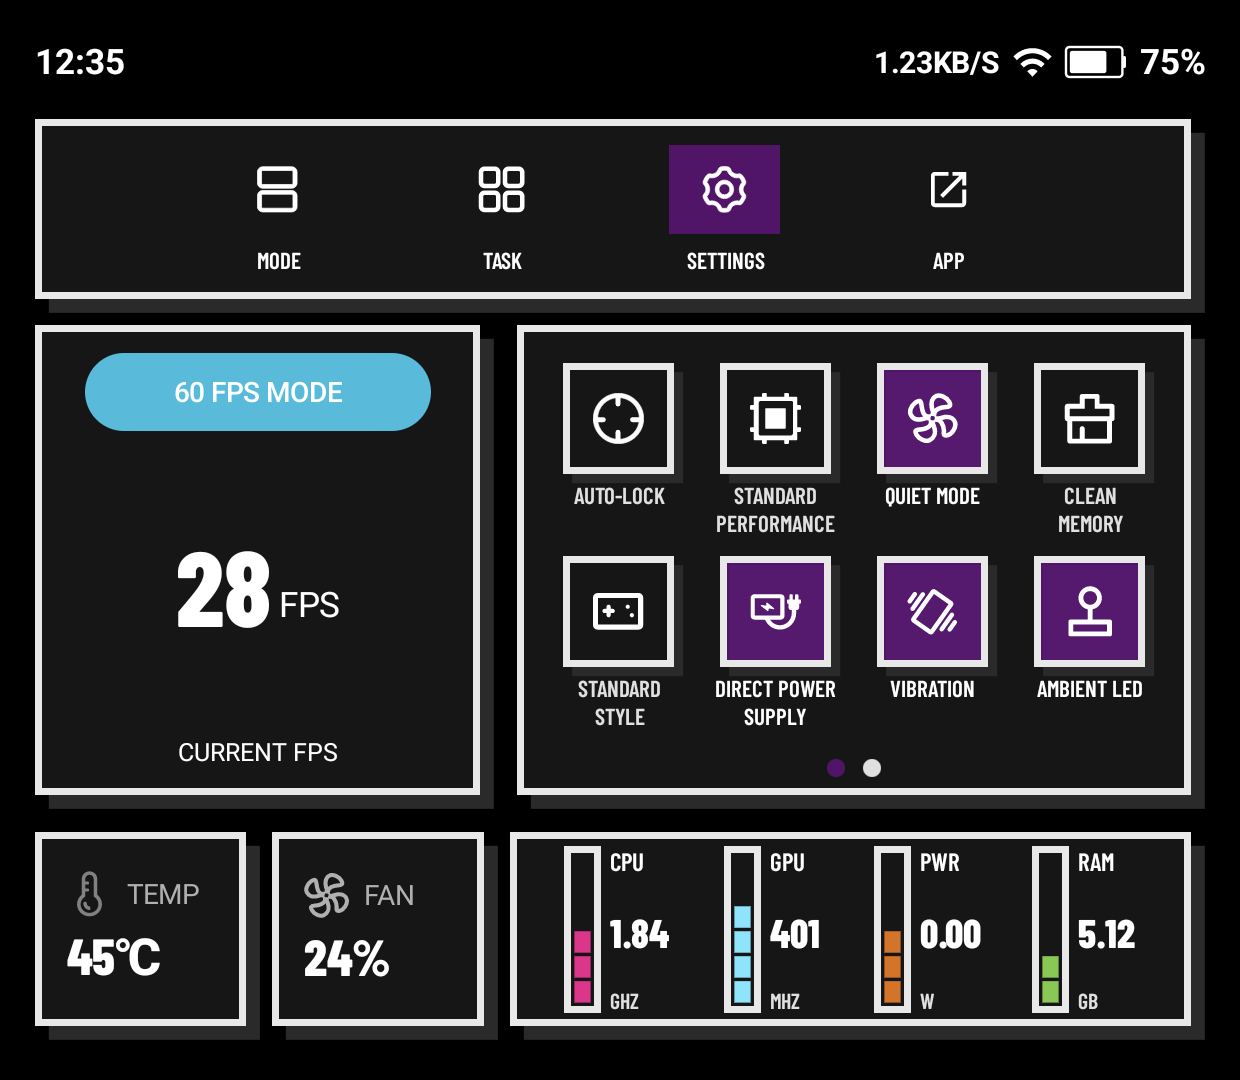
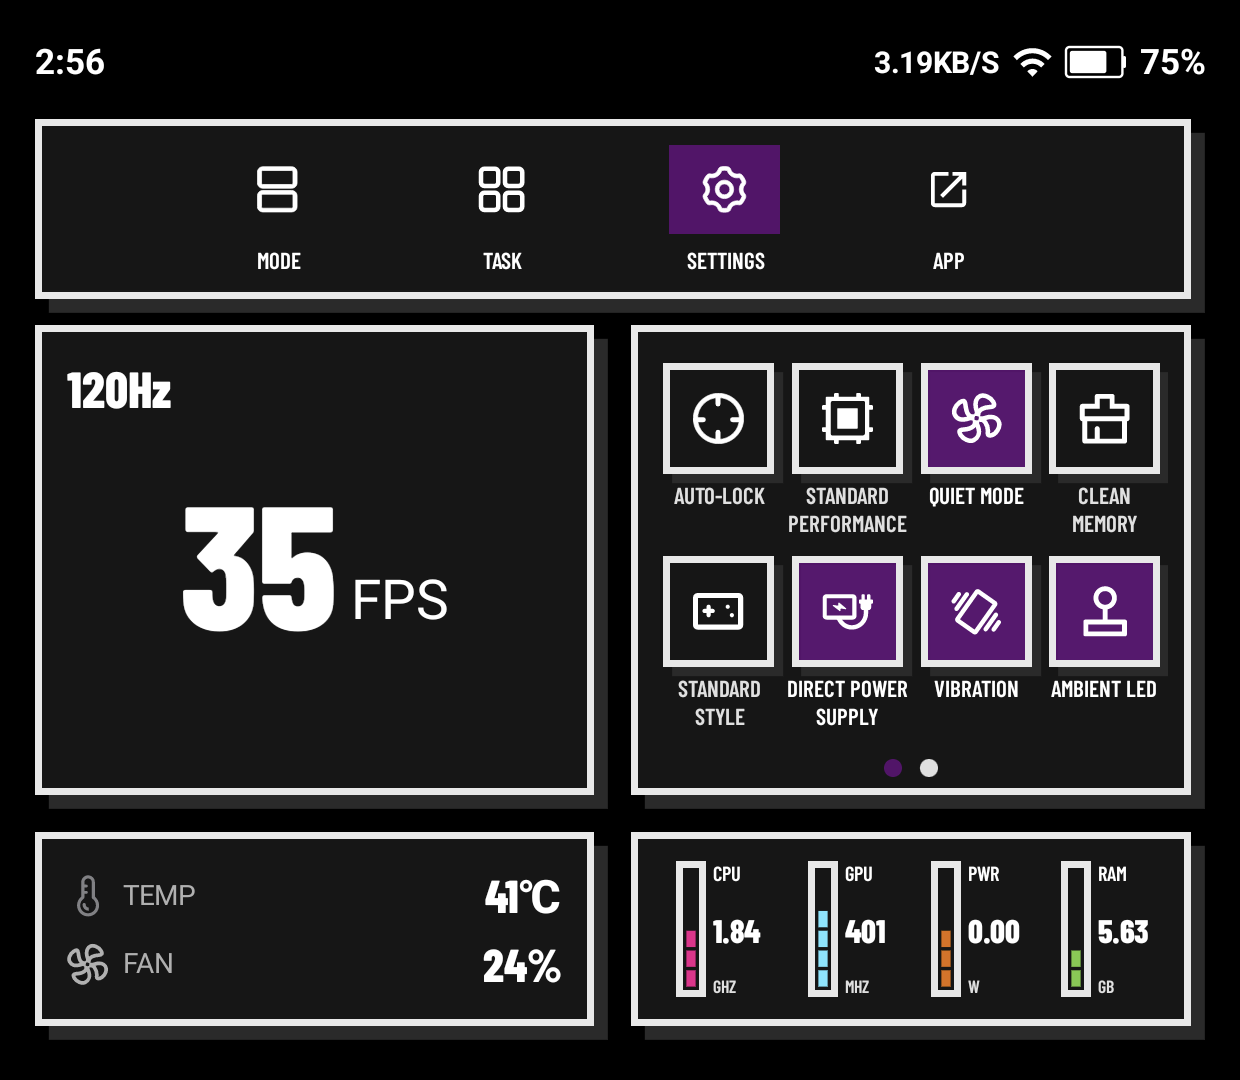
feat(overlay): compact hardware cards that adapt to their grid slot
Reworks the Settings telemetry/FPS cards so a free arrangement stays readable:

- Merge TEMP + FAN into one card (FAN removed as a separate grid card; RINGS is now HALF), so the hardware strip is
  one row again and the quick toggles get their height back. Default settings grid is now
  [FPS | quick tiles] / [temp+fan | rings].
- Right-size the FPS panel weight (0.70 -> 0.38) so it never forces a tall row that squeezes the toggles.
- Adaptive content by slot size (BoxWithConstraints): RINGS renders 2x2 (bigger) in a tall card, 1x4 in a strip;
  TEMP/FAN shows two stat columns (icon+label on top, value below) in a tall card, stacked rows in a strip; the FPS
  counter + FPS label grow in a big card.
- FPS card: replace the '60/120 FPS MODE' pill with a small Hz label in the top-left corner (same display font as the
  counter; whole card toggles), and drop the clipped 'CURRENT FPS' label. Fixes the FPS cutoff in tall-font looks
  (e-ink, y2k, segment lcd, cartridge).
- Rewrite OverlayLayoutTest (13) for the merged model; refresh the 17 look screenshots + gallery.

diff --git a/app/src/main/java/jr/brian/commandpannel/ui/overlay/SettingsTab.kt b/app/src/main/java/jr/brian/commandpannel/ui/overlay/SettingsTab.kt
@@ -4,6 +4,7 @@ import androidx.compose.foundation.background
 import jr.brian.commandpannel.ui.components.noRippleClickable
 import androidx.compose.foundation.layout.Arrangement
 import androidx.compose.foundation.layout.Box
+import androidx.compose.foundation.layout.BoxWithConstraints
 import androidx.compose.foundation.layout.Column
 import androidx.compose.foundation.layout.Row
 import androidx.compose.foundation.layout.RowScope
@@ -56,8 +57,7 @@ fun SettingsTab(
             OverlayCardId.FRAME_RATE -> FrameRatePanel(state, actions, m)
             OverlayCardId.QUICK_TILES -> QuickTilesPanel(state, onTile, m)
             OverlayCardId.RINGS -> RingsCard(state, m)
-            OverlayCardId.TEMP -> InfoCard(m, icon = "ic_temp", iconTint = TempColors.forCelsius(state.tempC), title = "TEMP", value = "${state.tempC}℃")
-            OverlayCardId.FAN -> InfoCard(m, icon = "ic_fan_normal", iconTint = null, title = "FAN", value = "${state.fanPercent}%")
+            OverlayCardId.TEMP -> TempFanCard(state, m)
             else -> Unit
         }
     }
@@ -66,42 +66,28 @@ fun SettingsTab(
 @Composable
 private fun FrameRatePanel(state: OverlayUiState, actions: OverlayActions, modifier: Modifier) {
     val colors = LocalTccColors.current
+    val displayStyle = jr.brian.commandpannel.ui.theme.tccDisplayTextStyle()
     TccCard(modifier) {
-        Column(
-            Modifier.fillMaxSize().padding(12.dp),
-            horizontalAlignment = Alignment.CenterHorizontally,
-            verticalArrangement = Arrangement.SpaceBetween,
-        ) {
-            androidx.compose.foundation.layout.Box(
-                Modifier.noRippleClickable { actions.toggleRefreshRate() },
-            ) { FrameRatePill(state.is120Hz) }
-            Row(verticalAlignment = Alignment.Bottom) {
-                Text("${state.fps}", color = colors.primary, fontSize = 46.sp, fontWeight = FontWeight.Bold, style = jr.brian.commandpannel.ui.theme.tccDisplayTextStyle())
-                Text(" FPS", color = colors.primary, fontSize = 15.sp, modifier = Modifier.padding(bottom = 10.dp))
+        // Tapping the whole card toggles the refresh rate; the rate shows as a small Hz label in the top-left corner
+        // (same text style as the FPS counter) to save space. In a big/tall card the counter grows to fill it.
+        BoxWithConstraints(Modifier.fillMaxSize().noRippleClickable { actions.toggleRefreshRate() }.padding(14.dp)) {
+            val big = maxHeight > maxWidth * 0.52f
+            val numberSp = if (big) 76.sp else 46.sp
+            val fpsSp = if (big) 24.sp else 15.sp
+            val hzSp = if (big) 22.sp else 16.sp
+            Text(
+                if (state.is120Hz) "120Hz" else "60Hz",
+                color = colors.primary,
+                fontSize = hzSp,
+                fontWeight = FontWeight.Bold,
+                style = displayStyle,
+                modifier = Modifier.align(Alignment.TopStart),
+            )
+            Row(Modifier.align(Alignment.Center), verticalAlignment = Alignment.Bottom) {
+                Text("${state.fps}", color = colors.primary, fontSize = numberSp, fontWeight = FontWeight.Bold, maxLines = 1, style = displayStyle)
+                Text(" FPS", color = colors.primary, fontSize = fpsSp, modifier = Modifier.padding(bottom = if (big) 14.dp else 10.dp))
             }
-            Text("CURRENT FPS", color = colors.panelText, fontSize = 11.sp)
         }
-    }
-}
-
-/** The "60/120 FPS MODE" pill (stock `bg_60/bg_120_frame_rate_mode` gradients), rendered in Compose. */
-@Composable
-private fun FrameRatePill(is120: Boolean) {
-    // Single flat fill (no gradient, no fade) so the pill reads as a solid filled badge.
-    val fill = if (is120) Color(0xFFD11AFF) else Color(0xFF1BBDDE)
-    Box(
-        modifier = Modifier
-            .size(width = 150.dp, height = 34.dp)
-            .clip(RoundedCornerShape(17.dp))
-            .background(fill),
-        contentAlignment = Alignment.Center,
-    ) {
-        Text(
-            if (is120) "120 FPS MODE" else "60 FPS MODE",
-            color = Color.White,
-            fontSize = 12.sp,
-            fontWeight = FontWeight.Medium,
-        )
     }
 }
 
@@ -153,36 +139,101 @@ private fun QuickTilesPanel(state: OverlayUiState, onTile: (String) -> Unit, mod
 
 @Composable
 private fun RingsCard(state: OverlayUiState, modifier: Modifier) {
+    val cpu: @Composable (Modifier) -> Unit = { m -> RingGauge(state.cpuFraction, RingColors.Cpu, "CPU", "%.2f".format(state.cpuGhz), "GHz", m) }
+    val gpu: @Composable (Modifier) -> Unit = { m -> RingGauge(state.gpuFraction, RingColors.Gpu, "GPU", "${state.gpuMhz}", "MHz", m) }
+    val pwr: @Composable (Modifier) -> Unit = { m -> RingGauge(state.powerFraction, RingColors.Pwr, "PWR", "%.2f".format(state.powerW), "W", m) }
+    val ram: @Composable (Modifier) -> Unit = { m -> RingGauge(state.ramFraction, RingColors.Ram, "RAM", "%.2f".format(state.ramGb), "GB", m) }
     TccCard(modifier) {
-        Row(
-            Modifier.fillMaxSize().padding(horizontal = 15.dp),
-            horizontalArrangement = Arrangement.spacedBy(5.dp),
-            verticalAlignment = Alignment.CenterVertically,
-        ) {
-            RingGauge(state.cpuFraction, RingColors.Cpu, "CPU", "%.2f".format(state.cpuGhz), "GHz", Modifier.weight(1f).fillMaxHeight())
-            RingGauge(state.gpuFraction, RingColors.Gpu, "GPU", "${state.gpuMhz}", "MHz", Modifier.weight(1f).fillMaxHeight())
-            RingGauge(state.powerFraction, RingColors.Pwr, "PWR", "%.2f".format(state.powerW), "W", Modifier.weight(1f).fillMaxHeight())
-            RingGauge(state.ramFraction, RingColors.Ram, "RAM", "%.2f".format(state.ramGb), "GB", Modifier.weight(1f).fillMaxHeight())
+        BoxWithConstraints(Modifier.fillMaxSize().padding(horizontal = 12.dp, vertical = 8.dp)) {
+            // In a tall/square card (e.g. moved to its own big slot) fill the space with a 2x2 grid; a wide strip stays 1x4.
+            if (maxHeight > maxWidth * 0.52f) {
+                Column(Modifier.fillMaxSize(), verticalArrangement = Arrangement.spacedBy(4.dp)) {
+                    Row(Modifier.fillMaxWidth().weight(1f), horizontalArrangement = Arrangement.spacedBy(8.dp)) {
+                        cpu(Modifier.weight(1f).fillMaxHeight()); gpu(Modifier.weight(1f).fillMaxHeight())
+                    }
+                    Row(Modifier.fillMaxWidth().weight(1f), horizontalArrangement = Arrangement.spacedBy(8.dp)) {
+                        pwr(Modifier.weight(1f).fillMaxHeight()); ram(Modifier.weight(1f).fillMaxHeight())
+                    }
+                }
+            } else {
+                Row(Modifier.fillMaxSize(), horizontalArrangement = Arrangement.spacedBy(5.dp), verticalAlignment = Alignment.CenterVertically) {
+                    cpu(Modifier.weight(1f).fillMaxHeight()); gpu(Modifier.weight(1f).fillMaxHeight())
+                    pwr(Modifier.weight(1f).fillMaxHeight()); ram(Modifier.weight(1f).fillMaxHeight())
+                }
+            }
         }
     }
 }
 
+/** Combined TEMP + FAN readings in one card, so the hardware strip is a single row (frees height for quick tiles).
+ *  Adapts like the rings: stacked rows in a compact strip, two side-by-side stat columns in a tall/big card. */
 @Composable
-private fun InfoCard(modifier: Modifier, icon: String, iconTint: Color?, title: String, value: String) {
-    val colors = LocalTccColors.current
+private fun TempFanCard(state: OverlayUiState, modifier: Modifier) {
     TccCard(modifier) {
-        Column(Modifier.fillMaxSize().padding(14.dp), verticalArrangement = Arrangement.SpaceEvenly) {
-            Row(verticalAlignment = Alignment.CenterVertically) {
-                Image(
-                    painter = rememberStockPainter(icon),
-                    contentDescription = title,
-                    colorFilter = stockIconColorFilter(iconTint ?: colors.tertiary),
-                    modifier = Modifier.size(20.dp),
-                )
-                Spacer(Modifier.size(6.dp))
-                Text(title, color = colors.tertiary, fontSize = 12.sp)
+        BoxWithConstraints(Modifier.fillMaxSize().padding(horizontal = 14.dp, vertical = 10.dp)) {
+            if (maxHeight > maxWidth * 0.52f) {
+                Row(Modifier.fillMaxSize(), horizontalArrangement = Arrangement.spacedBy(8.dp)) {
+                    StatBlock(icon = "ic_temp", iconTint = TempColors.forCelsius(state.tempC), title = "TEMP", value = "${state.tempC}℃")
+                    StatBlock(icon = "ic_fan_normal", iconTint = null, title = "FAN", value = "${state.fanPercent}%")
+                }
+            } else {
+                Column(Modifier.fillMaxSize(), verticalArrangement = Arrangement.SpaceEvenly) {
+                    InfoRow(icon = "ic_temp", iconTint = TempColors.forCelsius(state.tempC), title = "TEMP", value = "${state.tempC}℃")
+                    InfoRow(icon = "ic_fan_normal", iconTint = null, title = "FAN", value = "${state.fanPercent}%")
+                }
             }
-            Text(value, color = colors.primary, fontSize = (22 * jr.brian.commandpannel.ui.theme.LocalTccLookSpec.current.settingsTab.infoValueScale).sp, fontWeight = FontWeight.Medium, style = jr.brian.commandpannel.ui.theme.tccDisplayTextStyle())
         }
+    }
+}
+
+/** One stat as a vertical block (icon + label on top, big value below) — the tall-card form of a temp/fan reading. */
+@Composable
+private fun RowScope.StatBlock(icon: String, iconTint: Color?, title: String, value: String) {
+    val colors = LocalTccColors.current
+    Column(
+        Modifier.weight(1f).fillMaxHeight(),
+        horizontalAlignment = Alignment.CenterHorizontally,
+        verticalArrangement = Arrangement.SpaceEvenly,
+    ) {
+        Row(verticalAlignment = Alignment.CenterVertically) {
+            Image(
+                painter = rememberStockPainter(icon),
+                contentDescription = title,
+                colorFilter = stockIconColorFilter(iconTint ?: colors.tertiary),
+                modifier = Modifier.size(20.dp),
+            )
+            Spacer(Modifier.size(6.dp))
+            Text(title, color = colors.tertiary, fontSize = 13.sp)
+        }
+        Text(
+            value,
+            color = colors.primary,
+            fontSize = (28 * jr.brian.commandpannel.ui.theme.LocalTccLookSpec.current.settingsTab.infoValueScale).sp,
+            fontWeight = FontWeight.Medium,
+            style = jr.brian.commandpannel.ui.theme.tccDisplayTextStyle(),
+        )
+    }
+}
+
+@Composable
+private fun InfoRow(icon: String, iconTint: Color?, title: String, value: String) {
+    val colors = LocalTccColors.current
+    Row(verticalAlignment = Alignment.CenterVertically) {
+        Image(
+            painter = rememberStockPainter(icon),
+            contentDescription = title,
+            colorFilter = stockIconColorFilter(iconTint ?: colors.tertiary),
+            modifier = Modifier.size(18.dp),
+        )
+        Spacer(Modifier.size(6.dp))
+        Text(title, color = colors.tertiary, fontSize = 12.sp)
+        Spacer(Modifier.weight(1f))
+        Text(
+            value,
+            color = colors.primary,
+            fontSize = (20 * jr.brian.commandpannel.ui.theme.LocalTccLookSpec.current.settingsTab.infoValueScale).sp,
+            fontWeight = FontWeight.Medium,
+            style = jr.brian.commandpannel.ui.theme.tccDisplayTextStyle(),
+        )
     }
 }

diff --git a/app/src/test/java/jr/brian/commandpannel/system/OverlayLayoutTest.kt b/app/src/test/java/jr/brian/commandpannel/system/OverlayLayoutTest.kt
@@ -23,22 +23,22 @@ class OverlayLayoutTest {
 
     @Test
     fun `swap same-span settings cards`() {
-        val tf = default.applyDrop(OverlayCardId.TEMP, card(OverlayCardId.FAN))
-        assertEquals(GridCell(2, 1), tf.settingsCells[OverlayCardId.TEMP])
-        assertEquals(GridCell(2, 0), tf.settingsCells[OverlayCardId.FAN])
-
         val fq = default.applyDrop(OverlayCardId.FRAME_RATE, card(OverlayCardId.QUICK_TILES))
         assertEquals(GridCell(0, 1), fq.settingsCells[OverlayCardId.FRAME_RATE])
         assertEquals(GridCell(0, 0), fq.settingsCells[OverlayCardId.QUICK_TILES])
-        assertEquals(default.settingsCells[OverlayCardId.RINGS], fq.settingsCells[OverlayCardId.RINGS]) // untouched
+
+        val tr = default.applyDrop(OverlayCardId.TEMP, card(OverlayCardId.RINGS))
+        assertEquals(GridCell(1, 1), tr.settingsCells[OverlayCardId.TEMP])
+        assertEquals(GridCell(1, 0), tr.settingsCells[OverlayCardId.RINGS])
+        assertEquals(GridCell(0, 0), tr.settingsCells[OverlayCardId.FRAME_RATE]) // untouched
     }
 
     @Test
     fun `move HALF to an empty cell leaves a gap`() {
         val r = default.applyDrop(OverlayCardId.TEMP, empty(OverlayCardGroup.SETTINGS_TAB, 3, 0))
         assertEquals(GridCell(3, 0), r.settingsCells[OverlayCardId.TEMP])
-        assertFalse(r.settingsCells.values.contains(GridCell(2, 0))) // old slot is now an empty gap
-        assertEquals(GridCell(2, 1), r.settingsCells[OverlayCardId.FAN]) // partner stays put
+        assertFalse(r.settingsCells.values.contains(GridCell(1, 0))) // old slot is now a gap
+        assertEquals(GridCell(1, 1), r.settingsCells[OverlayCardId.RINGS]) // partner stays put
         assertTrue(OverlayLayout.isValid(OverlayCardGroup.SETTINGS_TAB, r.settingsCells))
     }
 
@@ -48,20 +48,14 @@ class OverlayLayoutTest {
         assertEquals(GridCell(1, 0), r.modeCells[OverlayCardId.MODE_BUTTONS])
         assertEquals(GridCell(0, 0), r.modeCells[OverlayCardId.BRIGHTNESS])
         assertEquals(GridCell(0, 1), r.modeCells[OverlayCardId.VOLUME])
-
-        val s = default.applyDrop(OverlayCardId.RINGS, card(OverlayCardId.TEMP))
-        assertEquals(GridCell(2, 0), s.settingsCells[OverlayCardId.RINGS])
-        assertEquals(GridCell(1, 0), s.settingsCells[OverlayCardId.TEMP])
-        assertEquals(GridCell(1, 1), s.settingsCells[OverlayCardId.FAN])
-        assertEquals(GridCell(0, 0), s.settingsCells[OverlayCardId.FRAME_RATE]) // other row untouched
     }
 
     @Test
     fun `move FULL to a free row works, onto an occupied row is a no-op`() {
-        val moved = default.applyDrop(OverlayCardId.RINGS, empty(OverlayCardGroup.SETTINGS_TAB, 5, 0))
-        assertEquals(GridCell(5, 0), moved.settingsCells[OverlayCardId.RINGS])
+        val moved = default.applyDrop(OverlayCardId.MODE_BUTTONS, empty(OverlayCardGroup.MODE_TAB, 5, 0))
+        assertEquals(GridCell(5, 0), moved.modeCells[OverlayCardId.MODE_BUTTONS])
 
-        assertSame(default, default.applyDrop(OverlayCardId.RINGS, empty(OverlayCardGroup.SETTINGS_TAB, 0, 0)))
+        assertSame(default, default.applyDrop(OverlayCardId.MODE_BUTTONS, empty(OverlayCardGroup.MODE_TAB, 1, 0)))
     }
 
     @Test
@@ -75,9 +69,10 @@ class OverlayLayoutTest {
     @Test
     fun `layout stays valid after a sequence of drops`() {
         val r = default
-            .applyDrop(OverlayCardId.TEMP, card(OverlayCardId.FAN))
-            .applyDrop(OverlayCardId.RINGS, card(OverlayCardId.FRAME_RATE))
+            .applyDrop(OverlayCardId.TEMP, card(OverlayCardId.RINGS))
+            .applyDrop(OverlayCardId.FRAME_RATE, card(OverlayCardId.QUICK_TILES))
             .applyDrop(OverlayCardId.BRIGHTNESS, card(OverlayCardId.VOLUME))
+            .applyDrop(OverlayCardId.MODE_BUTTONS, card(OverlayCardId.BRIGHTNESS))
         assertTrue(OverlayLayout.isValid(OverlayCardGroup.MODE_TAB, r.modeCells))
         assertTrue(OverlayLayout.isValid(OverlayCardGroup.SETTINGS_TAB, r.settingsCells))
     }
@@ -123,23 +118,22 @@ class OverlayLayoutTest {
 
     @Test
     fun `decode rejects overlapping cells and misplaced FULL cards`() {
-        val duplicate = "v=2;settings=frame_rate:0:0,quick_tiles:0:0,rings:1:0,temp:2:0,fan:2:1"
+        val duplicate = "v=2;settings=frame_rate:0:0,quick_tiles:0:0,temp:1:0,rings:1:1"
         assertEquals(OverlayLayout.DEFAULT_SETTINGS_CELLS, OverlayLayout.decode(duplicate).settingsCells)
 
-        val fullAtCol1 = "v=2;settings=frame_rate:0:0,quick_tiles:0:1,rings:1:1,temp:2:0,fan:2:1"
-        assertEquals(OverlayLayout.DEFAULT_SETTINGS_CELLS, OverlayLayout.decode(fullAtCol1).settingsCells)
+        // MODE_BUTTONS is FULL, so it must sit at col 0 — col 1 is invalid and reverts the mode tab.
+        val fullAtCol1 = "v=2;mode=mode_buttons:0:1,brightness:1:0,volume:1:1"
+        assertEquals(OverlayLayout.DEFAULT_MODE_CELLS, OverlayLayout.decode(fullAtCol1).modeCells)
     }
 
     @Test
     fun `isValid rejects a FULL card sharing its row`() {
         val bad = mapOf(
-            OverlayCardId.FRAME_RATE to GridCell(0, 0),
-            OverlayCardId.QUICK_TILES to GridCell(0, 1),
-            OverlayCardId.RINGS to GridCell(0, 0), // shares row 0 with the halves (also duplicate cell)
-            OverlayCardId.TEMP to GridCell(2, 0),
-            OverlayCardId.FAN to GridCell(2, 1),
+            OverlayCardId.MODE_BUTTONS to GridCell(0, 0), // FULL
+            OverlayCardId.BRIGHTNESS to GridCell(0, 1),   // shares row 0 with the FULL card
+            OverlayCardId.VOLUME to GridCell(1, 0),
         )
-        assertFalse(OverlayLayout.isValid(OverlayCardGroup.SETTINGS_TAB, bad))
+        assertFalse(OverlayLayout.isValid(OverlayCardGroup.MODE_TAB, bad))
         assertNull(default.cells(OverlayCardGroup.NAV_BAR)[OverlayCardId.NAV_BAR])
     }
 }

diff --git a/app/src/main/java/jr/brian/commandpannel/system/OverlayLayout.kt b/app/src/main/java/jr/brian/commandpannel/system/OverlayLayout.kt
@@ -20,11 +20,10 @@ enum class OverlayCardId(
     MODE_BUTTONS("mode_buttons", OverlayCardGroup.MODE_TAB, CardSpan.FULL, 0.46f),
     BRIGHTNESS("brightness", OverlayCardGroup.MODE_TAB, CardSpan.HALF, 0.54f),
     VOLUME("volume", OverlayCardGroup.MODE_TAB, CardSpan.HALF, 0.54f),
-    FRAME_RATE("frame_rate", OverlayCardGroup.SETTINGS_TAB, CardSpan.HALF, 0.50f),
-    QUICK_TILES("quick_tiles", OverlayCardGroup.SETTINGS_TAB, CardSpan.HALF, 0.50f),
-    TEMP("temp", OverlayCardGroup.SETTINGS_TAB, CardSpan.HALF, 0.26f),
-    FAN("fan", OverlayCardGroup.SETTINGS_TAB, CardSpan.HALF, 0.26f),
-    RINGS("rings", OverlayCardGroup.SETTINGS_TAB, CardSpan.FULL, 0.24f),
+    FRAME_RATE("frame_rate", OverlayCardGroup.SETTINGS_TAB, CardSpan.HALF, 0.38f),
+    QUICK_TILES("quick_tiles", OverlayCardGroup.SETTINGS_TAB, CardSpan.HALF, 0.70f),
+    TEMP("temp", OverlayCardGroup.SETTINGS_TAB, CardSpan.HALF, 0.30f),
+    RINGS("rings", OverlayCardGroup.SETTINGS_TAB, CardSpan.HALF, 0.30f),
     NAV_BAR("nav_bar", OverlayCardGroup.NAV_BAR);
 
     companion object {
@@ -147,9 +146,8 @@ data class OverlayLayout(
         val DEFAULT_SETTINGS_CELLS = mapOf(
             OverlayCardId.FRAME_RATE to GridCell(0, 0),
             OverlayCardId.QUICK_TILES to GridCell(0, 1),
-            OverlayCardId.RINGS to GridCell(1, 0),
-            OverlayCardId.TEMP to GridCell(2, 0),
-            OverlayCardId.FAN to GridCell(2, 1),
+            OverlayCardId.TEMP to GridCell(1, 0),
+            OverlayCardId.RINGS to GridCell(1, 1),
         )
         val DEFAULT = OverlayLayout()
 
